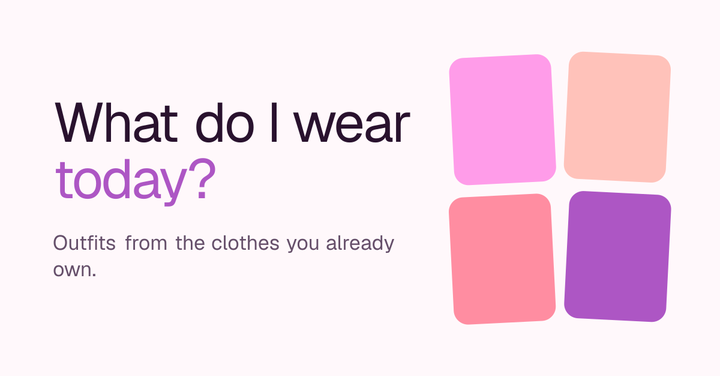
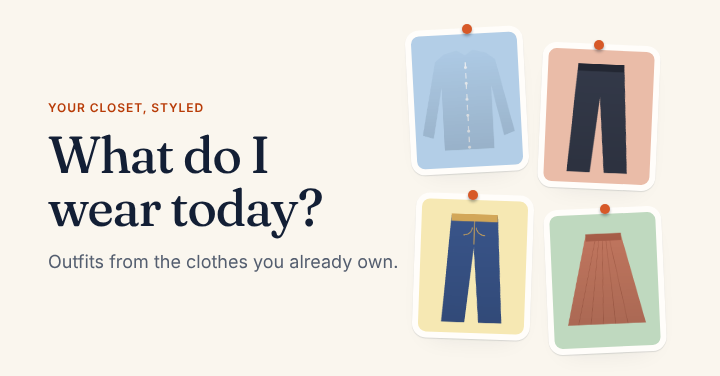
docs: new demo GIF and cover for the Linen & Denim UI
The README GIF and cover image still showed the old pink, dark UI.

- docs/demo.gif: a 31-second, 1152×648 tour of the redesign (wardrobe
  filter and piece sheet, building an outfit with the weather, friends,
  a friend's wardrobe, matching outfits, then the switch to dark).
  Recorded with sample garments; 9.5 MB, down from 26 MB.
- README points at docs/demo.gif; the old docs/preview.gif is removed.
- docs/Cover Image.png: same 720×376 size, new palette and type.

Claude-Session: https://claude.ai/code/session_015zcJJtM5XvCByEJHS87CSw

diff --git a/README.md b/README.md
@@ -2,7 +2,7 @@
 > Ever spent way too long deciding what to wear? Same.
 What Do I Wear Today? turns your wardrobe into a digital one and uses AI to help you build outfits based on your clothes, the weather, and what you're doing. [Try it out here!](https://wardrobe.ronakbuilds.tech/)
 
-<img src="docs/preview.gif" alt="Demo GIF" width="600">
+<img src="docs/demo.gif" alt="Demo GIF" width="600">
 
 
 ---
